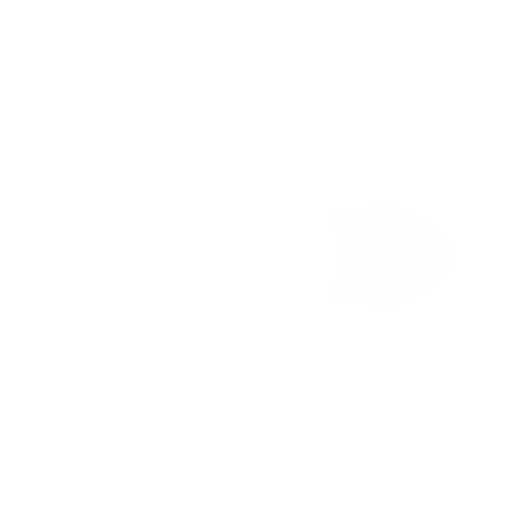
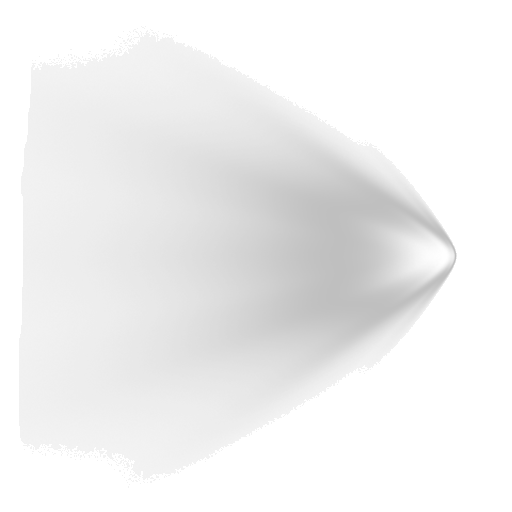
更新风魔法特效，增加治疗魔法特效（完成了彩虹部分），增加了技能选中特效

Changed region(s): [[0.25, 0.2188, 0.9062, 0.7812]]

diff --git a/SkillSystem/AbstractClass/SkillPanelUI.cs b/SkillSystem/AbstractClass/SkillPanelUI.cs
@@ -259,24 +259,30 @@ public abstract class SkillPanelUI : BaseBody, IDraggableUI
     protected void RegisterAllSkill()
     {
         var sortedSkills = GetAllSkill()
-            .OrderBy(skill => GetUIPositionAttribute(skill.Value).State)
-            .ThenBy(skill => GetUIPositionAttribute(skill.Value).Pixels)
-            .ToList(); // 转换为列表存储
+            .Select(skill => new
+            {
+                Skill = skill,
+                UIInfo = GetUIPositionAttribute(skill.Value)
+            })
+            .Where(entry => entry.UIInfo != null)
+            .OrderBy(entry => entry.UIInfo.State)
+            .ThenBy(entry => entry.UIInfo.Pixels)
+            .ToList(); // 没有 SkillUIInfo 的技能不会进入技能面板
 
         int currentState = -1;
         // 当前行里下一个技能槽在 flex 流中的起始位置（已排入槽的宽度累计）
         float lineFlowCursor = 0;
         UIElementGroup currentSkillLine = null;
 
-        foreach (var skill in sortedSkills)
+        foreach (var entry in sortedSkills)
         {
-            Skill panelSkill = GetPanelSkillInstance(skill.Value);
+            Skill panelSkill = GetPanelSkillInstance(entry.Skill.Value);
             if (panelSkill?.ModSkill == null)
             {
                 continue;
             }
 
-            SkillUIInfoAttribute infoAttribute = GetUIPositionAttribute(skill.Value);
+            SkillUIInfoAttribute infoAttribute = entry.UIInfo;
             int state = infoAttribute.State;
             float pixcels = infoAttribute.Pixels;
             //新开一行技能栏
